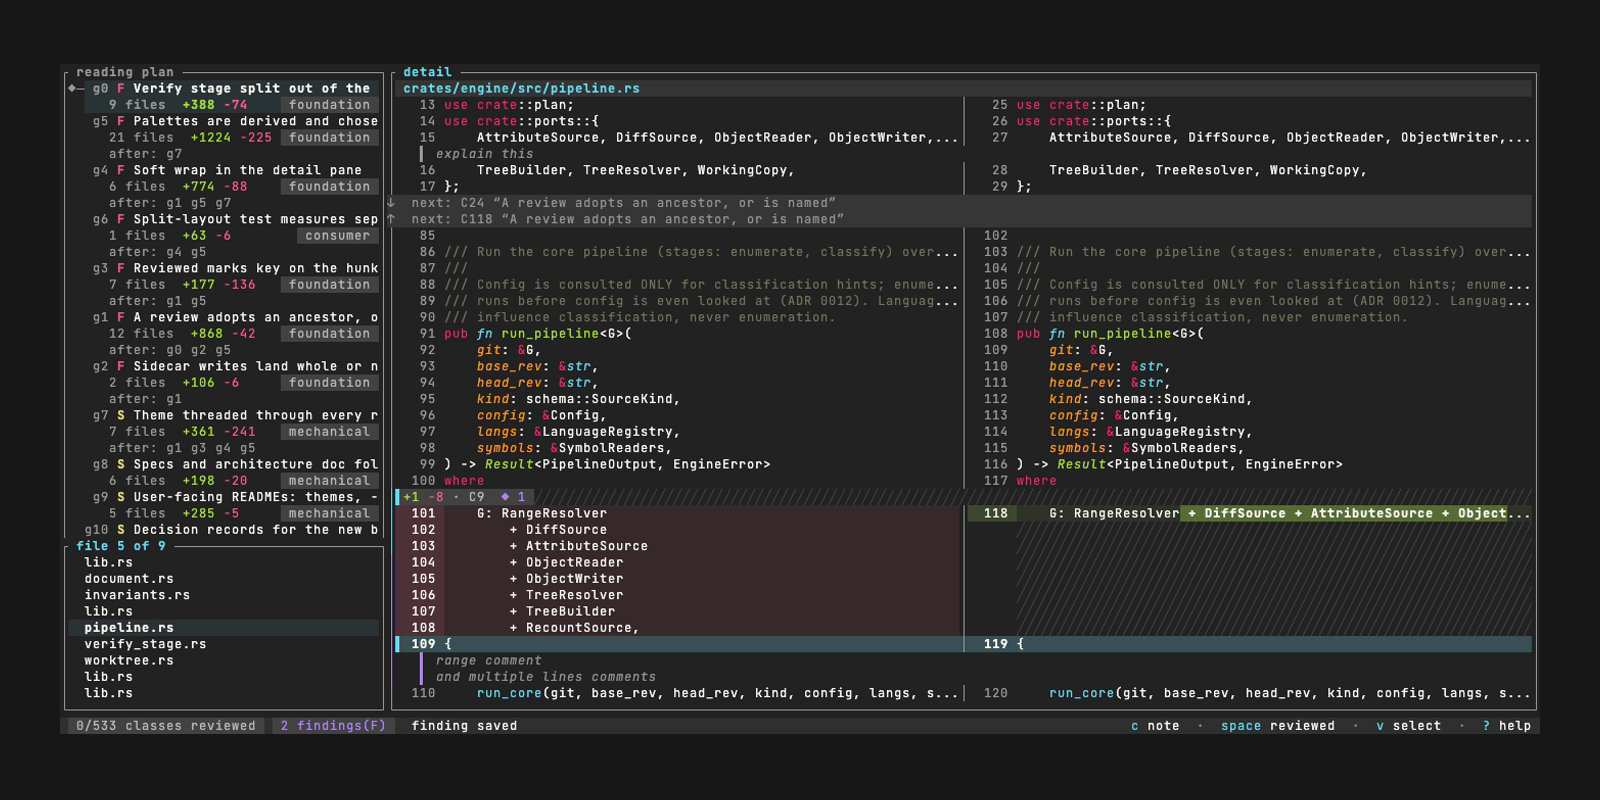
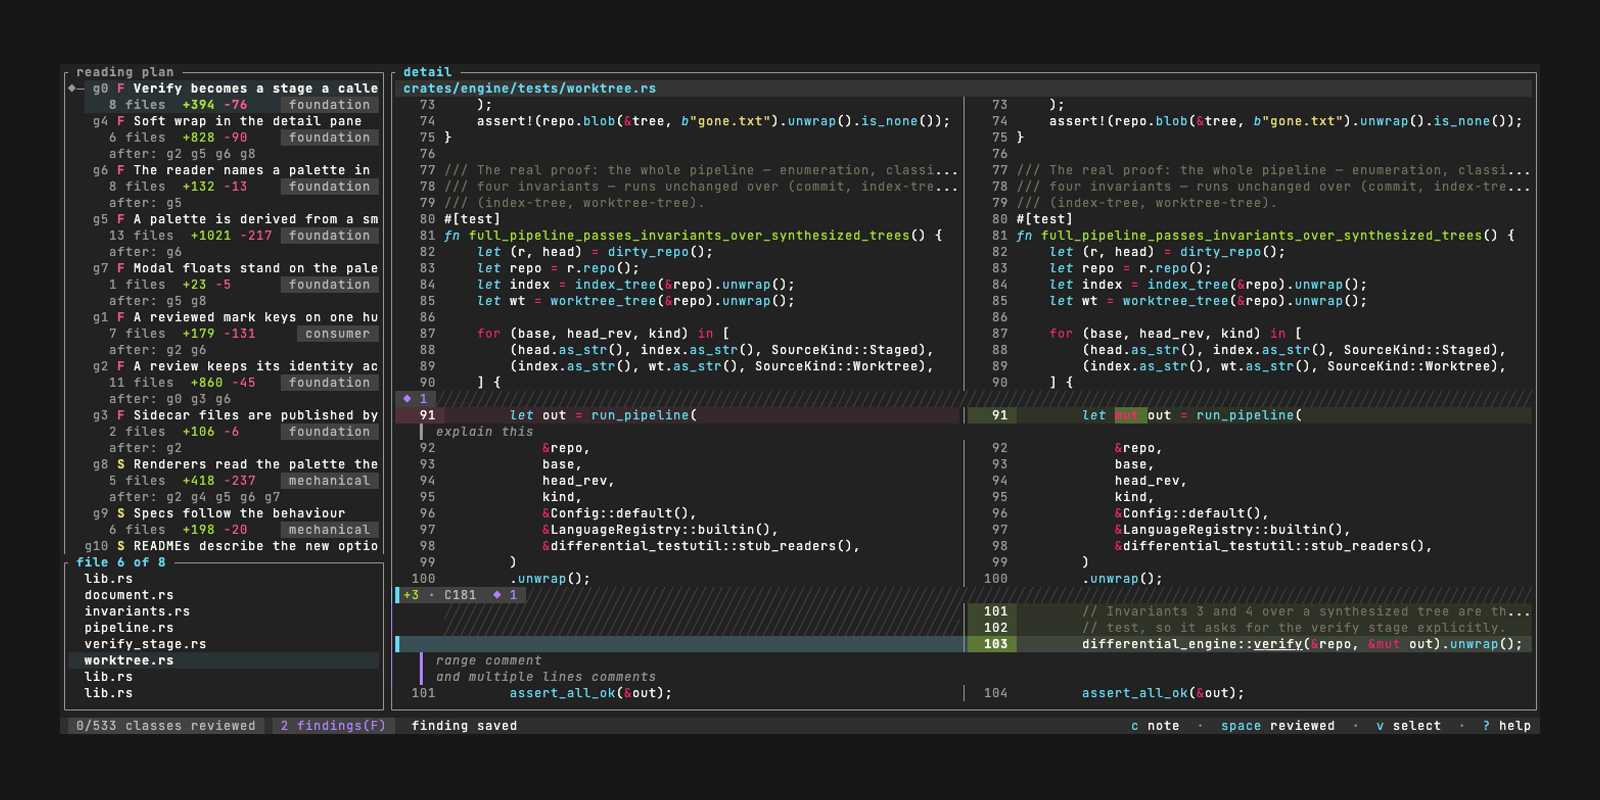
[chore] the demo writes an mp4, and its counts follow the plan again (#150)
* [chore] the demo writes an mp4 too, and its counts follow the plan again

`Output demo.mp4` beside `Output demo.webm`. vhs encodes both from the same
frames, so the two cannot drift apart the way two recordings would. GitHub
plays the webm inline, which is what the README links; the mp4 is for
everywhere that does not.

Recording it on 0.12.1 turned up the thing that makes this tape age. The range
is pinned, but the PLAN over it is the grouping model's answer, and that moves
when `dfr` does — different labels, a different order, different hunks under
the cursor. Both findings had drifted onto context again: the first sat six
rows past a hunk header whose change is one row past it, and the range covered
six unchanged lines below a three-line addition. They are one and one-plus-two
now, and both are back on the change.

So the comments stop quoting numbers that rot. The header no longer counts the
tiers, and the dependency beat no longer names the group it lands on; both say
instead that a `Down N` here is read off the screen and that a release moves
it. The waits are what catch it when it moves — they are the reason this was
caught at all rather than shipped.

`assets/shot.vhs` had the same two counts and the same drift.

* [chore] the demo writes mp4 and nothing else, and the README plays the new cut

GitHub plays an mp4 inline the same as a webm, and mp4 is the format everything
else takes too — a slide, a post, a player that is not a browser. A second
[…]

diff --git a/README.md b/README.md
@@ -29,7 +29,7 @@ Reading a large diff well takes four things:
 [What it does that a diff viewer does not](#what-it-does-that-a-diff-viewer-does-not) is
 how `differential` answers each one.
 
-https://github.com/user-attachments/assets/1674e11c-cab4-42d4-a011-0ee1c4d889d0
+https://github.com/user-attachments/assets/818336cf-4fba-4e41-a72e-9f971a1cef58
 
 ## Requirements
 
